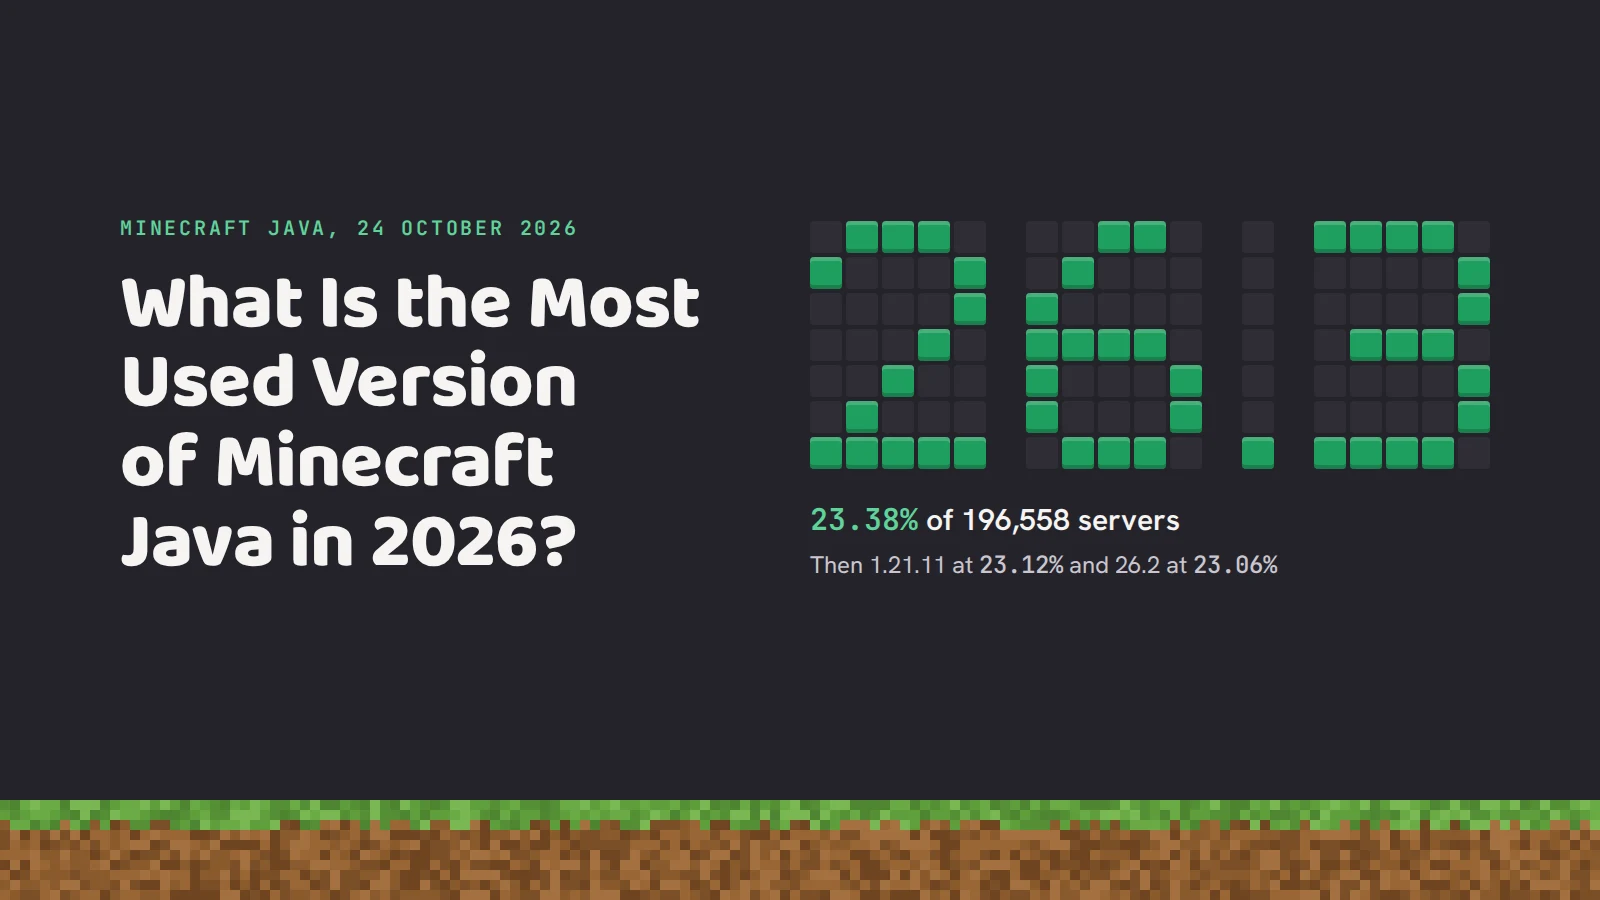
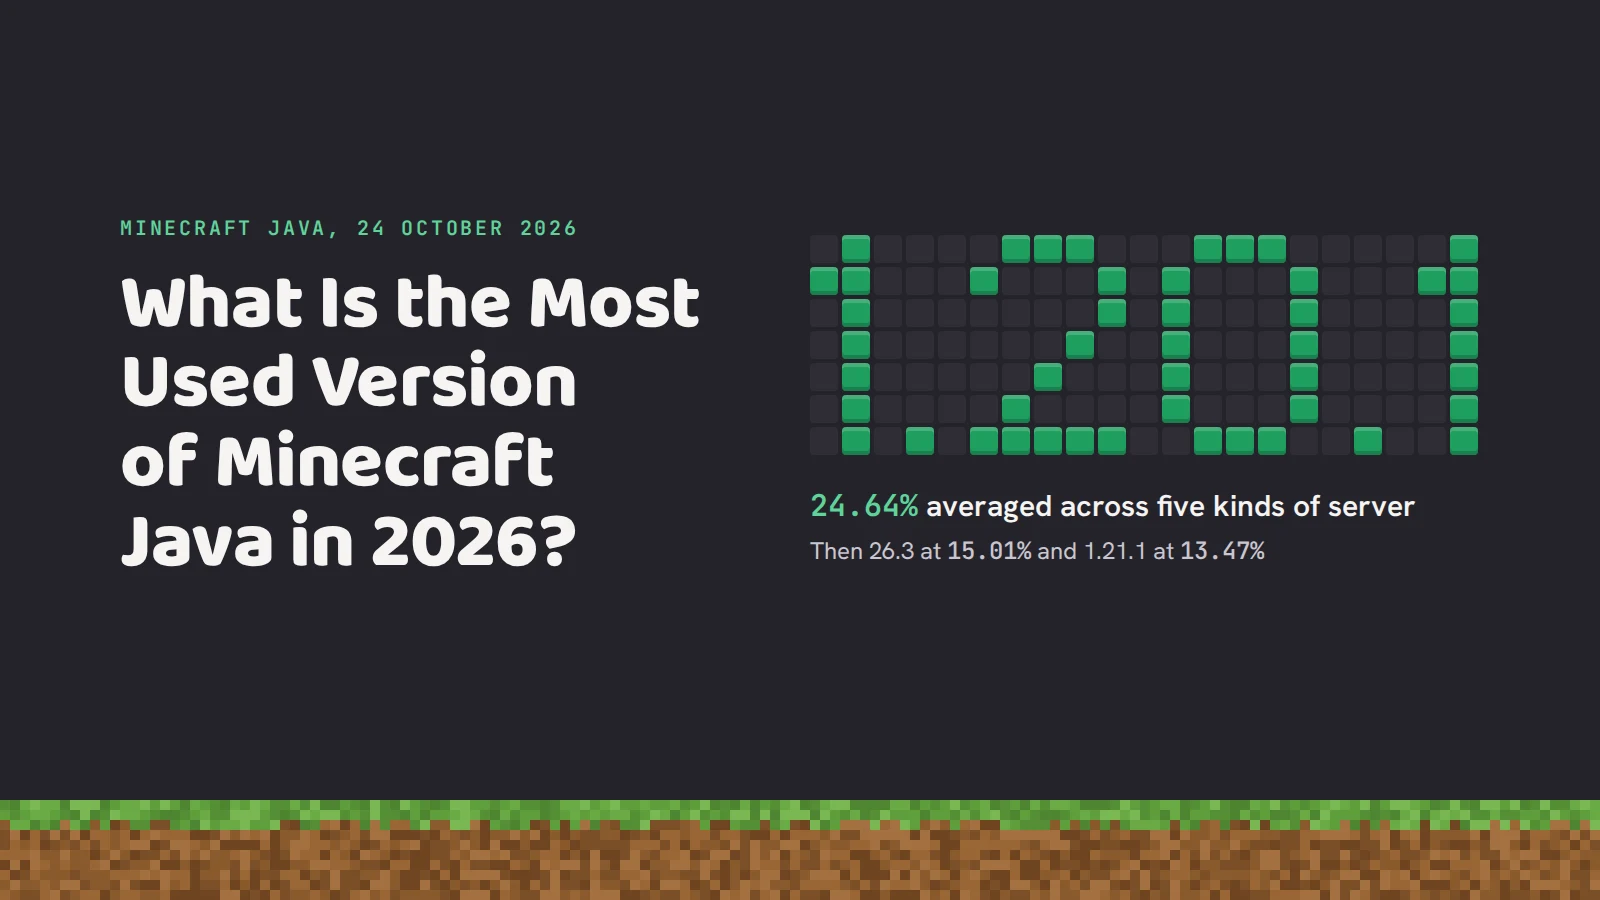
Minecraft versions article: cover and excerpt give the article's answer, 1.20.1
The cover and excerpt were made on 30 October, when the article's answer
was the Paper-family server leader, 26.3 at 23.38%. On 5 November the
article's opening answer became the average across five kinds of server,
where 1.20.1 leads at 24.64%, and neither was redone. The cover now shows
1.20.1 with 26.3 and 1.21.1 after it, in the same design, and the excerpt
names 1.20.1 first.

Session: PublicationMaster

Changed region(s): [[0.5, 0.2178, 0.9375, 0.6533]]

diff --git a/members/gbtilabs/posts/what-is-the-most-used-version-of-minecraft-java/index.md b/members/gbtilabs/posts/what-is-the-most-used-version-of-minecraft-java/index.md
@@ -4,7 +4,7 @@ slug: what-is-the-most-used-version-of-minecraft-java
 status: published
 visibility: public
 publicStub: false
-excerpt: "26.3 leads on Paper-family servers and in Fabric and Quilt mod downloads; Forge mods are downloaded most for 1.20.1 and NeoForge mods for 1.21.1."
+excerpt: "Averaged across five kinds of server, 1.20.1 is the most used Minecraft Java version; 26.3 leads on Paper-family servers and in Fabric and Quilt mod downloads."
 categories:
   - entertainment
   - gaming
